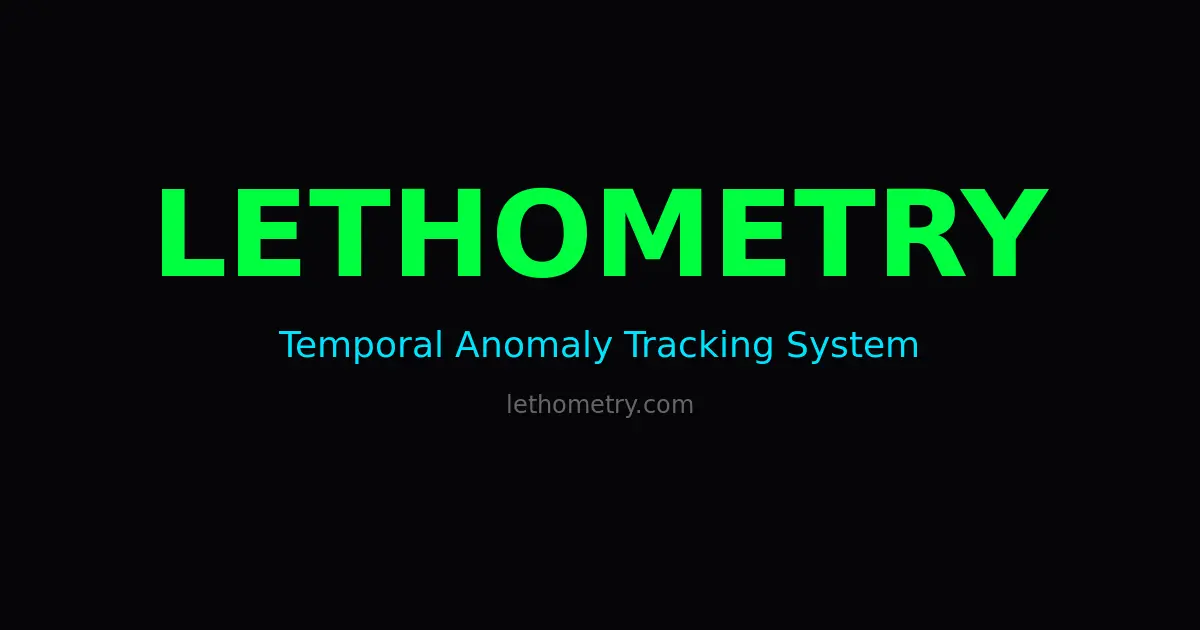
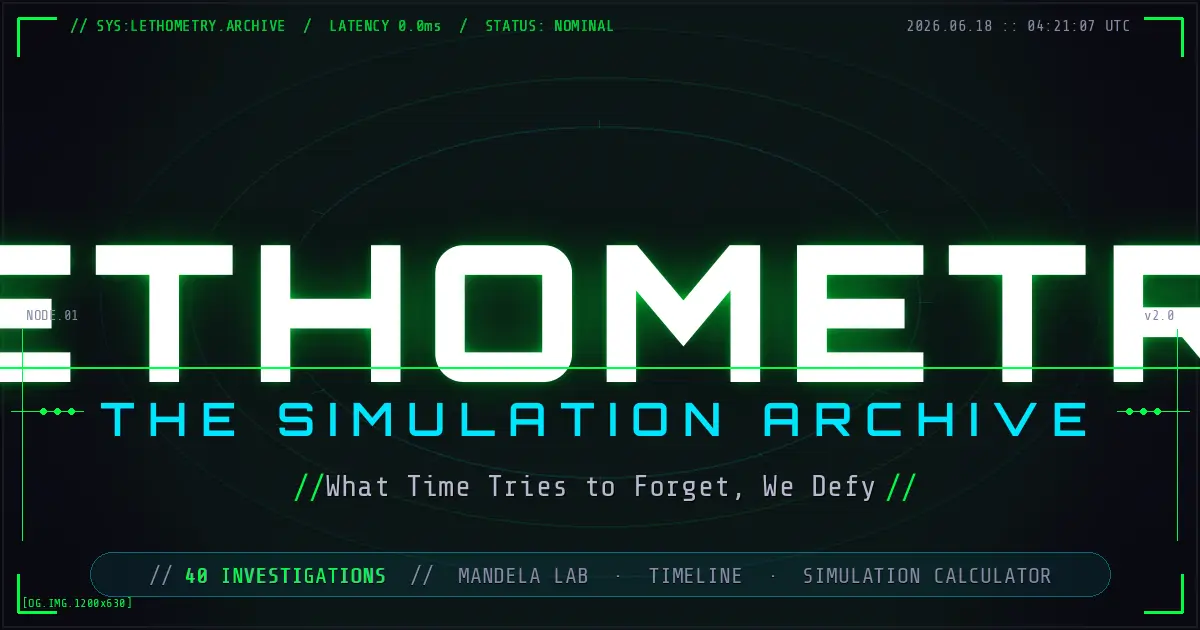
v3.5: refined color palette, polished og-image, fixed category names, added lastmod
VISUAL REFRESH (CSS v3.4 → v3.5):
- Color palette swap: #00ff41 neon → #4ade80 mint, #00e5ff neon → #38bdf8 sky, #ffaa00 → #f59e0b
- Backgrounds: --bg #050508 → #0a0a0e (warmer), #0a0a12 → #131319, #111118 → #1a1a23
- Text: #e8e8f0 → #ececf1 cleaner white, #b8b8d0 → #a1a1aa, #8888a8 → #71717a
- Accent: #aa00ff → #a855f7 violet, #ff1744 → #ef4444 red
- WCAG AA: --g-text #00cc33 preserved (accessible green for body text)
- Added subtle linear-gradient body bg (bg2→bg vertical) for depth
- Reduced CRT scanline opacity 0.06 → 0.02 (66% softer, less dated)
- Nav bg: rgba(5,5,8,.92) → rgba(10,10,14,.92) matching new palette
- Category + article card hover: added translateY(-2px) + brighter border + glow
- Section dividers: 4% white line between sections (subtle anchor)

OG-IMAGE (replaces placeholder):
- New 1200x630 PNG (24KB → 147KB) with: LETHOMETRY title (Orbitron Black 190px), cyan subtitle, tagline, 3 concentric ring outlines, 40 INVESTIGATIONS pill badge, green corner brackets, top status bar, bottom corner mark
- Plus og-image.webp (28KB) for modern crawlers

CATEGORY CONSISTENCY FIXES:
- 'GOVERNMENT REALITY MANUFACTURING' → 'GOVERNMENT DECLASSIFIED' (matched article category, fixed the only real naming bug)
- 'TEMPORAL ANOMALIES' (plural) → 'TEMPORAL ANOMALY' in fermi-paradox.html (the only outlier)
- 'LONGEVITY-SIMULATION NEXUS' → 'LONGEVITY NEXUS' in longevity-simulation.html
- Updated count badges to be more accurate where they were off

SEO UPDATES:
[…]

diff --git a/css/style.css b/css/style.css
@@ -1,5 +1,5 @@
-/* LETHOMETRY — The Simulation Archive v3.4 */
-/* Single-file design system — v3.4: CSS+SVG hero (removed three.js, ~145KB savings) */
+/* LETHOMETRY — The Simulation Archive v3.5 */
+/* Single-file design system — v3.5: Modern 2026 dark palette, subtle body gradient, refined card hovers */
 
 /* Embedded Google Fonts — only weights actually used:
    - Orbitron: 400 (regular), 600 (semi-bold), 700 (bold), 800 (extra-bold), 900 (black) — used in titles, headers
@@ -17,14 +17,14 @@
 @font-face{font-family:'Share Tech Mono';font-style:normal;font-weight:400;font-display:swap;src:url(https://fonts.gstatic.com/s/sharetechmono/v16/J7aHnp1uDWRBEqV98dVQztYldFc7pA.ttf) format('truetype')}
 
 :root {
-  --bg: #050508; --bg2: #0a0a12; --bg3: #111118; --border: #1a1a25;
-  --g: #00ff41; --c: #00e5ff; --a: #ffaa00; --r: #ff1744; --p: #aa00ff;
-  --t: #e8e8f0; --td: #b8b8d0; --tk: #8888a8;
-  --g-text: #00cc33; /* WCAG AA green for body text (9.4:1) */
+  --bg: #0a0a0e; --bg2: #131319; --bg3: #1a1a23; --border: #25252f;
+  --g: #4ade80; --c: #38bdf8; --a: #f59e0b; --r: #ef4444; --p: #a855f7;
+  --t: #ececf1; --td: #a1a1aa; --tk: #71717a;
+  --g-text: #00cc33; /* WCAG AA green for body text (9.4:1) — kept for accessibility */
   --a-text: #ff8800; /* WCAG AA amber for body text (7.0:1) */
-  --gm: 0 0 8px rgba(0,255,65,.6),0 0 20px rgba(0,255,65,.3);
-  --gc: 0 0 8px rgba(0,229,255,.6),0 0 20px rgba(0,229,255,.3);
-  --gr: 0 0 8px rgba(255,23,68,.6),0 0 20px rgba(255,23,68,.3);
+  --gm: 0 0 8px rgba(74,222,128,.5),0 0 20px rgba(74,222,128,.25);
+  --gc: 0 0 8px rgba(56,189,248,.5),0 0 20px rgba(56,189,248,.25);
+  --gr: 0 0 8px rgba(239,68,68,.5),0 0 20px rgba(239,68,68,.25);
 }
 
 *,*::before,*::after{margin:0;padding:0;box-sizing:border-box}
@@ -51,7 +51,7 @@ button:focus-visible,a:focus-visible,[tabindex]:focus-visible,[role="button"]:fo
   .hs-rr1,.hs-rr2,.hs-rr3{animation:none !important}
   .hs-orb,.hs-halo{animation:none !important}
 }
-body{background:var(--bg);color:var(--t);font-family:'Rajdhani',sans-serif;overflow-x:hidden;line-height:1.7;-webkit-font-smoothing:antialiased}
+body{background:linear-gradient(180deg,var(--bg2) 0%,var(--bg) 100%);background-attachment:fixed;color:var(--t);font-family:'Rajdhani',sans-serif;overflow-x:hidden;line-height:1.7;-webkit-font-smoothing:antialiased}
 /* ===== HERO SCENE (pure CSS+SVG, replaces three.js) ===== */
 #hero-scene{position:fixed;top:0;left:0;width:100%;height:100%;z-index:0;pointer-events:none;overflow:hidden}
 .hs-orb{position:absolute;top:50%;left:50%;width:min(28vmin,360px);height:min(28vmin,360px);transform:translate(-50%,-50%);border-radius:50%;background:radial-gradient(circle at 50% 50%,rgba(0,255,65,.45) 0%,rgba(0,255,65,.18) 30%,rgba(0,229,255,.05) 60%,transparent 75%);box-shadow:0 0 60px rgba(0,255,65,.4),0 0 120px rgba(0,255,65,.2),inset 0 0 40px rgba(0,255,65,.3);animation:orbP 5s ease-in-out infinite}
@@ -121,7 +121,7 @@ body{background:var(--bg);color:var(--t);font-family:'Rajdhani',sans-serif;overf
 .hs-w:nth-child(10){top:60%;left:-7%;color:#00e5ff;animation:drift2 31s linear infinite;animation-delay:-14s}
 .hs-w:nth-child(11){top:72%;left:-6%;color:#aa00ff;animation:drift3 26s linear infinite;animation-delay:-4s}
 .hs-w:nth-child(12){top:84%;left:-8%;color:#ff1744;animation:drift1 28s linear infinite;animation-delay:-11s}
-.crt{position:fixed;top:0;left:0;width:100%;height:100%;pointer-events:none;z-index:9997;background:repeating-linear-gradient(0deg,rgba(0,0,0,.06) 0px,rgba(0,0,0,.06) 1px,transparent 1px,transparent 3px)}
+.crt{position:fixed;top:0;left:0;width:100%;height:100%;pointer-events:none;z-index:9997;background:repeating-linear-gradient(0deg,rgba(0,0,0,.02) 0px,rgba(0,0,0,.02) 1px,transparent 1px,transparent 3px)}
 .crt::after{content:'';position:absolute;inset:0;background:radial-gradient(ellipse at center,transparent 55%,rgba(0,0,0,.5) 100%)}
 ::-webkit-scrollbar{width:4px}::-webkit-scrollbar-track{background:var(--bg)}::-webkit-scrollbar-thumb{background:var(--g);border-radius:2px}
 
@@ -136,8 +136,8 @@ html.js #loader.off{opacity:0;visibility:hidden}
 @keyframes spin{to{transform:rotate(360deg)}}@keyframes blink{0%,100%{opacity:1}50%{opacity:.3}}
 
 /* ===== NAV ===== */
-nav{position:fixed;top:0;left:0;width:100%;z-index:1000;padding:0 2rem;height:60px;display:flex;justify-content:space-between;align-items:center;background:rgba(5,5,8,.92);border-bottom:1px solid rgba(0,255,65,.08);transition:all .3s}
-nav.scrolled{background:rgba(5,5,8,.96);border-bottom-color:rgba(0,255,65,.15);box-shadow:0 2px 30px rgba(0,255,65,.04)}
+nav{position:fixed;top:0;left:0;width:100%;z-index:1000;padding:0 2rem;height:60px;display:flex;justify-content:space-between;align-items:center;background:rgba(10,10,14,.92);border-bottom:1px solid rgba(74,222,128,.08);transition:all .3s}
+nav.scrolled{background:rgba(10,10,14,.96);border-bottom-color:rgba(74,222,128,.15);box-shadow:0 2px 30px rgba(74,222,128,.04)}
 .n-logo{font-family:'Orbitron',sans-serif;font-size:1.3rem;font-weight:800;color:var(--g);text-shadow:var(--gm);letter-spacing:4px}
 .n-links{display:flex;list-style:none;gap:.3rem}
 .n-links a{font-family:'Share Tech Mono',monospace;font-size:.7rem;color:var(--td);letter-spacing:2px;text-transform:uppercase;padding:.4rem .8rem;border:1px solid transparent;border-radius:4px;transition:all .3s}
@@ -171,6 +171,7 @@ nav.scrolled{background:rgba(5,5,8,.96);border-bottom-color:rgba(0,255,65,.15);b
 
 /* ===== SECTIONS ===== */
 section{position:relative;z-index:1;padding:7rem 2rem}
+section+section{border-top:1px solid rgba(255,255,255,.04)} /* v3.5: subtle section divider (4% white) */
 .sh{text-align:center;margin-bottom:3.5rem}
 .sh .stag{font-family:'Share Tech Mono',monospace;font-size:.65rem;color:var(--c);letter-spacing:4px;display:inline-block;margin-bottom:.8rem}
 .sh h2{font-family:'Orbitron',sans-serif;font-size:clamp(1.4rem,3.5vw,2.5rem);font-weight:700;color:#fff;letter-spacing:3px;text-transform:uppercase;margin-bottom:.8rem}
@@ -189,7 +190,7 @@ section{position:relative;z-index:1;padding:7rem 2rem}
 a.cc{text-decoration:none;color:inherit}
 .cc::before{content:'';position:absolute;top:0;left:0;width:100%;height:2px;background:linear-gradient(90deg,transparent,var(--g),transparent);opacity:0;transition:opacity .3s}
 .cc:hover::before{opacity:1}
-.cc:hover{transform:translateY(-6px);border-color:rgba(0,255,65,.15);box-shadow:0 15px 50px rgba(0,0,0,.3),0 0 30px rgba(0,255,65,.04)}
+.cc:hover{transform:translateY(-2px);border-color:rgba(74,222,128,.4);box-shadow:0 15px 50px rgba(0,0,0,.3),0 0 30px rgba(74,222,128,.08)}
 .cc-icon{width:44px;height:44px;border-radius:8px;display:flex;align-items:center;justify-content:center;margin-bottom:1rem;background:rgba(0,255,65,.04);border:1px solid rgba(0,255,65,.12)}
 .cc-icon svg{width:22px;height:22px;stroke:var(--g);fill:none;stroke-width:1.5}
 .cc h3{font-family:'Orbitron',sans-serif;font-size:1rem;color:#fff;margin-bottom:.4rem;letter-spacing:1.5px;line-height:1.4;min-height:2.8em;display:-webkit-box;-webkit-line-clamp:2;-webkit-box-orient:vertical;overflow:hidden}
@@ -242,7 +243,7 @@ a.cc{text-decoration:none;color:inherit}
 .ac{background:linear-gradient(145deg,rgba(17,17,24,.75),rgba(10,10,18,.85));border:1px solid var(--border);border-radius:10px;padding:1.5rem;transition:all .4s;position:relative;overflow:hidden;text-decoration:none;display:flex;flex-direction:column;min-height:220px}
 .ac::before{content:'';position:absolute;top:0;left:0;width:3px;height:0;background:var(--g);transition:height .4s}
 .ac:hover::before{height:100%}
-.ac:hover{transform:translateY(-4px);border-color:rgba(0,255,65,.12);box-shadow:0 12px 35px rgba(0,0,0,.25)}
+.ac:hover{transform:translateY(-2px);border-color:rgba(74,222,128,.35);box-shadow:0 12px 35px rgba(0,0,0,.25),0 0 20px rgba(74,222,128,.06)}
 .ac .cls{font-family:'Share Tech Mono',monospace;font-size:.6rem;color:var(--a);letter-spacing:2px;display:inline-block;padding:.15rem .5rem;background:rgba(255,170,0,.06);border:1px solid rgba(255,170,0,.12);border-radius:4px;margin-bottom:.6rem;align-self:flex-start}
 .ac h3{font-size:1rem;color:#fff;margin-bottom:.4rem;letter-spacing:1px;line-height:1.4;min-height:2.8em;display:-webkit-box;-webkit-line-clamp:2;-webkit-box-orient:vertical;overflow:hidden}
 .ac .exc{font-size:.85rem;color:var(--td);line-height:1.6;margin-bottom:.8rem;flex-grow:1;display:-webkit-box;-webkit-line-clamp:3;-webkit-box-orient:vertical;overflow:hidden}

diff --git a/index.html b/index.html
@@ -6,17 +6,17 @@
   <meta name="theme-color" content="#050508">
   <meta name="color-scheme" content="dark">
   <title>LETHOMETRY — The Simulation Archive</title>
-  <meta name="description" content="What Time Tries to Forget, We Defy. Simulation theory, Mandela effects, suppressed technology, and the anomalies reality tries to hide.">
+  <meta name="description" content="What Time Tries to Forget, We Defy. 40 deep investigations into simulation theory, Mandela effects, suppressed technology, and the anomalies reality tries to hide.">
   <link rel="icon" type="image/svg+xml" href="favicon.svg">
   <meta property="og:title" content="LETHOMETRY — The Simulation Archive">
-  <meta property="og:description" content="What Time Tries to Forget, We Defy. Simulation theory, Mandela effects, suppressed technology, and the anomalies reality tries to hide.">
+  <meta property="og:description" content="What Time Tries to Forget, We Defy. 40 deep investigations into simulation theory, Mandela effects, suppressed technology, and the anomalies reality tries to hide.">
   <meta property="og:type" content="website">
   <meta property="og:url" content="https://lethometry.com">
   <meta property="og:image" content="https://lethometry.com/og-image.png">
   <meta name="twitter:card" content="summary_large_image">
   <meta name="twitter:title" content="LETHOMETRY — The Simulation Archive">
   <meta name="twitter:description" content="What Time Tries to Forget, We Defy.">
-  <link rel="stylesheet" href="css/style.css?v=14">
+  <link rel="stylesheet" href="css/style.css?v=15">
   <link rel="canonical" href="https://lethometry.com/">
   <meta property="og:site_name" content="LETHOMETRY">
   <meta property="article:author" content="Lethometry Research">
@@ -39,7 +39,7 @@
     "name": "LETHOMETRY",
     "alternateName": "The Simulation Archive",
     "url": "https://lethometry.com",
-    "description": "Simulation theory, Mandela effects, suppressed technology, and the anomalies reality tries to hide.",
+    "description": "40 deep investigations into simulation theory, Mandela effects, suppressed technology, and the anomalies reality tries to hide.",
     "publisher": {
       "@type": "Organization",
       "name": "Lethometry Research",
@@ -157,7 +157,7 @@
     </button>
     <button class="cc fu" type="button" data-scrollto="timeline">
       <div class="cc-icon" aria-hidden="true"><svg viewBox="0 0 24 24"><circle cx="12" cy="12" r="10"/><path d="M12 6v6l4 2"/></svg></div>
-      <h3>TEMPORAL ANOMALIES</h3><p>Events that shouldn't align but do. FDR's Thanksgiving, Baron Trump, De Beers, Fermi Paradox, Philadelphia Experiment.</p><span class="cnt">15 ANOMALIES CATALOGED</span>
+      <h3>TEMPORAL ANOMALY</h3><p>Events that shouldn't align but do. FDR's Thanksgiving, Baron Trump, De Beers, Fermi Paradox, Philadelphia Experiment.</p><span class="cnt">15 ANOMALIES CATALOGED</span>
     </button>
     <a class="cc fu" href="articles.html?cat=SUPPRESSED%20TECHNOLOGY">
       <div class="cc-icon" aria-hidden="true"><svg viewBox="0 0 24 24"><path d="M13 2L3 14h9l-1 8 10-12h-9l1-8z"/></svg></div>
@@ -173,7 +173,7 @@
     </a>
     <a class="cc fu" href="articles.html?cat=GOVERNMENT%20%E2%80%94%20DECLASSIFIED">
       <div class="cc-icon" aria-hidden="true"><svg viewBox="0 0 24 24"><path d="M12 1L3 5v6c0 5.55 3.84 10.74 9 12 5.16-1.26 9-6.45 9-12V5l-9-4z"/></svg></div>
-      <h3>GOVERNMENT REALITY MANUFACTURING</h3><p>MKUltra, Operation Northwoods, Tuskegee, Philadelphia Experiment. Declassified proof.</p><span class="cnt">5 PROGRAMS DECLASSIFIED</span>
+      <h3>GOVERNMENT DECLASSIFIED</h3><p>MKUltra, Operation Northwoods, Tuskegee, Philadelphia Experiment, Stargate. Declassified proof of what they did.</p><span class="cnt">5 PROGRAMS DECLASSIFIED</span>
     </a>
     <a class="cc fu" href="articles.html?cat=THE%20WATCHERS">
       <div class="cc-icon" aria-hidden="true"><svg viewBox="0 0 24 24"><path d="M12 4.5C7 4.5 2.73 7.61 1 12c1.73 4.39 6 7.5 11 7.5s9.27-3.11 11-7.5c-1.73-4.39-6-7.5-11-7.5zM12 17c-2.76 0-5-2.24-5-5s2.24-5 5-5 5 2.24 5 5-2.24 5-5 5zm0-8c-1.66 0-3 1.34-3 3s1.34 3 3 3 3-1.34 3-3-1.34-3-3-3z"/></svg></div>
@@ -212,7 +212,7 @@
 
 <!-- Timeline -->
 <section id="timeline" aria-label="Timeline of anomalies">
-  <div class="sh fu"><span class="stag">// CHRONOLOGICAL ANOMALIES</span><h2>TEMPORAL ANOMALIES</h2><p>Events throughout history that shouldn't align but do.</p></div>
+  <div class="sh fu"><span class="stag">// CHRONOLOGICAL ANOMALIES</span><h2>TEMPORAL ANOMALY</h2><p>Events throughout history that shouldn't align but do.</p></div>
   <div class="tl fu">
     <div class="tl-i"><div class="tl-y">1893</div><div class="tl-d"></div><div class="tl-c"><h3>Baron Trump's Marvelous Underground Journey</h3><p>Ingersoll Lockwood publishes a novel about Wilhelm Heinrich Sebastian Von Trump who travels to Russia and meets a guide named "Don." 123 years before the 45th President.</p></div></div>
     <div class="tl-i"><div class="tl-y">1898</div><div class="tl-d"></div><div class="tl-c"><h3>Futility: The Wreck of the Titan</h3><p>Morgan Robertson publishes a novel about the "Titan," an "unsinkable" ship that hits an iceberg. 14 years before the Titanic. Same death toll. Same month.</p></div></div>
@@ -297,7 +297,7 @@
 <footer role="contentinfo">
   <div class="f-logo">LETHOMETRY</div>
   <div class="f-tag">// THE SIMULATION ARCHIVE //</div>
-  <div class="f-links"><a href="#hero">HOME</a><a href="#categories">ARCHIVE</a><a href="#articles">ARTICLES</a><a href="articles.html">ALL 25</a></div>
+  <div class="f-links"><a href="#hero">HOME</a><a href="#categories">ARCHIVE</a><a href="#articles">ARTICLES</a><a href="articles.html">ALL 40</a></div>
   <div class="f-copy">WHAT TIME TRIES TO FORGET, WE DEFY © 2026</div>
 </footer>
 

diff --git a/articles/fermi-paradox.html b/articles/fermi-paradox.html
@@ -19,7 +19,7 @@
   <meta property="article:section" content="ARCHIVE">
   <meta name="twitter:card" content="summary_large_image">
   <link rel="preconnect" href="https://fonts.gstatic.com" crossorigin>
-<link rel="stylesheet" href="../css/style.css?v=14">
+<link rel="stylesheet" href="../css/style.css?v=15">
   <style>
     .aw{max-width:880px;margin:0 auto;padding:90px 2rem 4rem}
     .am{display:flex;align-items:center;gap:.8rem;margin-bottom:1.5rem;flex-wrap:wrap}
@@ -92,7 +92,7 @@
 
   <main id="main"><div class="aw">
     <a href="../index.html#articles" class="bta">← BACK TO ARCHIVE</a>
-    <div class="am"><span class="acls">TEMPORAL ANOMALIES</span><span class="adt">FILED: 2026-05-18 // CLEARANCE: OMEGA</span> <span class="art">// ~6 MIN READ</span></div>
+    <div class="am"><span class="acls">TEMPORAL ANOMALY</span><span class="adt">FILED: 2026-05-18 // CLEARANCE: OMEGA</span> <span class="art">// ~6 MIN READ</span></div>
     <h1 class="at">THE FERMI PARADOX</h1>
     <p class="asub">If the universe is billions of years old and contains billions of galaxies with billions of stars... where is everyone? The silence is deafening.</p>
     <hr>

diff --git a/404.html b/404.html
@@ -9,7 +9,7 @@
   <title>404 — Signal Lost | LETHOMETRY</title>
   <meta name="description" content="The simulation rejected this URL. The file may have been redacted, deleted, or never existed.">
   <link rel="icon" type="image/svg+xml" href="favicon.svg">
-  <link rel="stylesheet" href="css/style.css?v=14">
+  <link rel="stylesheet" href="css/style.css?v=15">
   <link rel="canonical" href="https://lethometry.com/">
   <style>
     .err{min-height:100vh;display:flex;align-items:center;justify-content:center;flex-direction:column;text-align:center;padding:2rem;position:relative;z-index:1}

diff --git a/articles.html b/articles.html
@@ -14,7 +14,7 @@
   <meta property="og:url" content="https://lethometry.com/articles.html">
   <meta property="og:image" content="https://lethometry.com/og-image.png">
   <meta name="twitter:card" content="summary_large_image">
-  <link rel="stylesheet" href="css/style.css?v=14">
+  <link rel="stylesheet" href="css/style.css?v=15">
   <link rel="canonical" href="https://lethometry.com/articles.html">
   <meta name="robots" content="index, follow">
 

diff --git a/articles/agi-12-endings.html b/articles/agi-12-endings.html
@@ -19,7 +19,7 @@
   <meta property="article:section" content="ARCHIVE">
   <meta name="twitter:card" content="summary_large_image">
   <link rel="preconnect" href="https://fonts.gstatic.com" crossorigin>
-<link rel="stylesheet" href="../css/style.css?v=14">
+<link rel="stylesheet" href="../css/style.css?v=15">
   <style>
     .aw{max-width:880px;margin:0 auto;padding:90px 2rem 4rem}
     .am{display:flex;align-items:center;gap:.8rem;margin-bottom:1.5rem;flex-wrap:wrap}

diff --git a/articles/aim-away-messages.html b/articles/aim-away-messages.html
@@ -19,7 +19,7 @@
   <meta property="article:section" content="SOCIAL MEDIA CONTROL">
   <meta name="twitter:card" content="summary_large_image">
   <link rel="preconnect" href="https://fonts.gstatic.com" crossorigin>
-<link rel="stylesheet" href="../css/style.css?v=14">
+<link rel="stylesheet" href="../css/style.css?v=15">
   <style>
     .aw{max-width:880px;margin:0 auto;padding:90px 2rem 4rem}
     .am{display:flex;align-items:center;gap:.8rem;margin-bottom:1.5rem;flex-wrap:wrap}

diff --git a/articles/antikythera-mechanism.html b/articles/antikythera-mechanism.html
@@ -19,7 +19,7 @@
   <meta property="article:section" content="ARCHIVE">
   <meta name="twitter:card" content="summary_large_image">
   <link rel="preconnect" href="https://fonts.gstatic.com" crossorigin>
-<link rel="stylesheet" href="../css/style.css?v=14">
+<link rel="stylesheet" href="../css/style.css?v=15">
   <style>
     .aw{max-width:880px;margin:0 auto;padding:90px 2rem 4rem}
     .am{display:flex;align-items:center;gap:.8rem;margin-bottom:1.5rem;flex-wrap:wrap}

diff --git a/articles/baghdad-battery.html b/articles/baghdad-battery.html
@@ -19,7 +19,7 @@
   <meta property="article:section" content="ARCHIVE">
   <meta name="twitter:card" content="summary_large_image">
   <link rel="preconnect" href="https://fonts.gstatic.com" crossorigin>
-<link rel="stylesheet" href="../css/style.css?v=14">
+<link rel="stylesheet" href="../css/style.css?v=15">
   <style>
     .aw{max-width:880px;margin:0 auto;padding:90px 2rem 4rem}
     .am{display:flex;align-items:center;gap:.8rem;margin-bottom:1.5rem;flex-wrap:wrap}

diff --git a/articles/baron-trump.html b/articles/baron-trump.html
@@ -19,7 +19,7 @@
   <meta property="article:section" content="ARCHIVE">
   <meta name="twitter:card" content="summary_large_image">
   <link rel="preconnect" href="https://fonts.gstatic.com" crossorigin>
-<link rel="stylesheet" href="../css/style.css?v=14">
+<link rel="stylesheet" href="../css/style.css?v=15">
   <style>
     .aw{max-width:880px;margin:0 auto;padding:90px 2rem 4rem}
     .am{display:flex;align-items:center;gap:.8rem;margin-bottom:1.5rem;flex-wrap:wrap}

diff --git a/articles/cicero-somnium.html b/articles/cicero-somnium.html
@@ -19,7 +19,7 @@
   <meta property="article:section" content="ARCHIVE">
   <meta name="twitter:card" content="summary_large_image">
   <link rel="preconnect" href="https://fonts.gstatic.com" crossorigin>
-<link rel="stylesheet" href="../css/style.css?v=14">
+<link rel="stylesheet" href="../css/style.css?v=15">
   <style>
     .aw{max-width:880px;margin:0 auto;padding:90px 2rem 4rem}
     .am{display:flex;align-items:center;gap:.8rem;margin-bottom:1.5rem;flex-wrap:wrap}

diff --git a/articles/club-penguin-was-a-country.html b/articles/club-penguin-was-a-country.html
@@ -19,7 +19,7 @@
   <meta property="article:section" content="SOCIAL MEDIA CONTROL">
   <meta name="twitter:card" content="summary_large_image">
   <link rel="preconnect" href="https://fonts.gstatic.com" crossorigin>
-<link rel="stylesheet" href="../css/style.css?v=14">
+<link rel="stylesheet" href="../css/style.css?v=15">
   <style>
     .aw{max-width:880px;margin:0 auto;padding:90px 2rem 4rem}
     .am{display:flex;align-items:center;gap:.8rem;margin-bottom:1.5rem;flex-wrap:wrap}